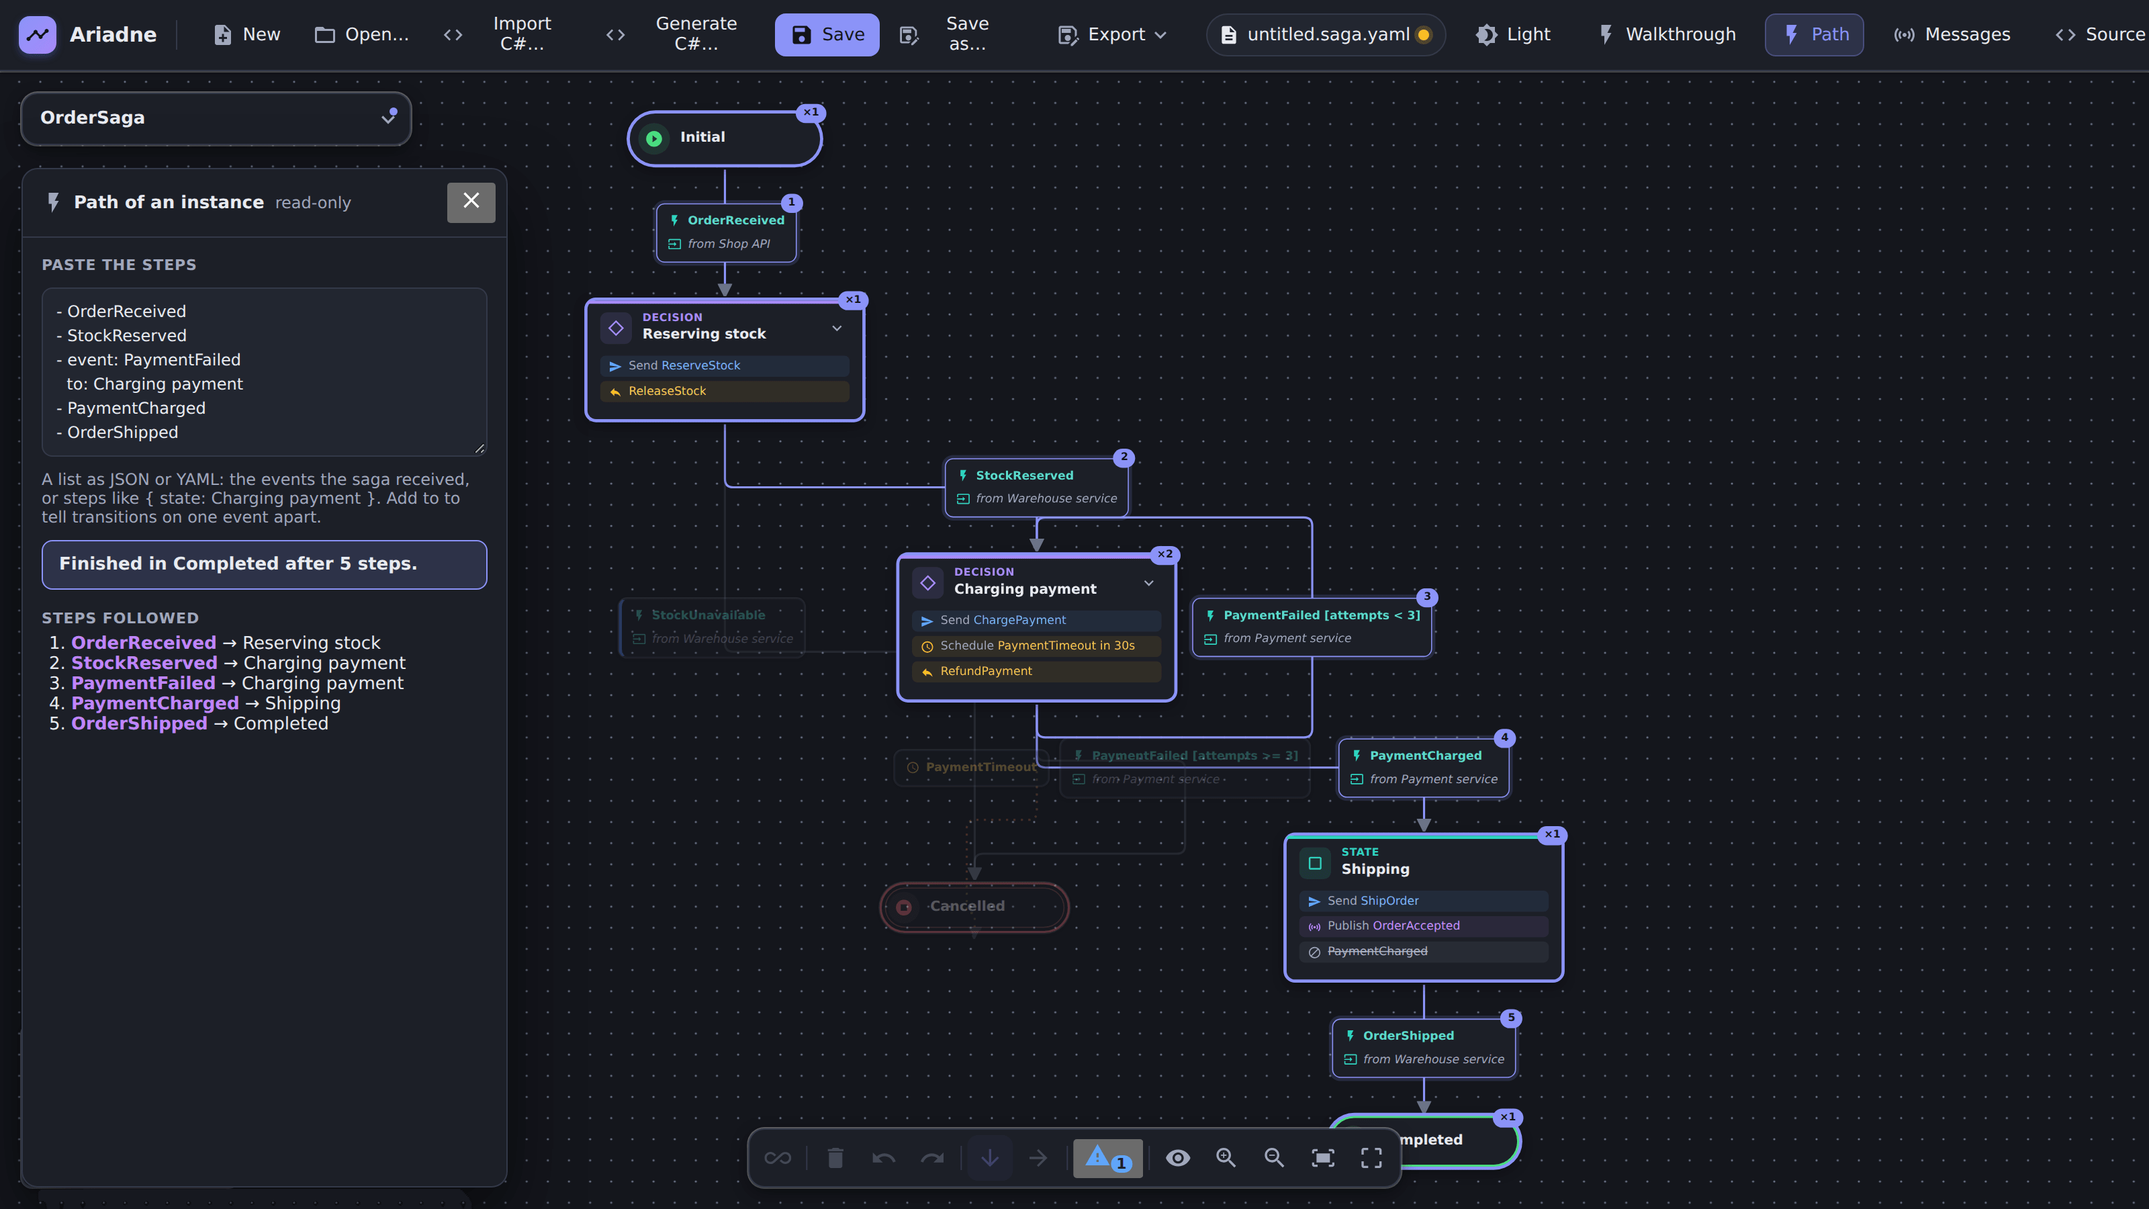
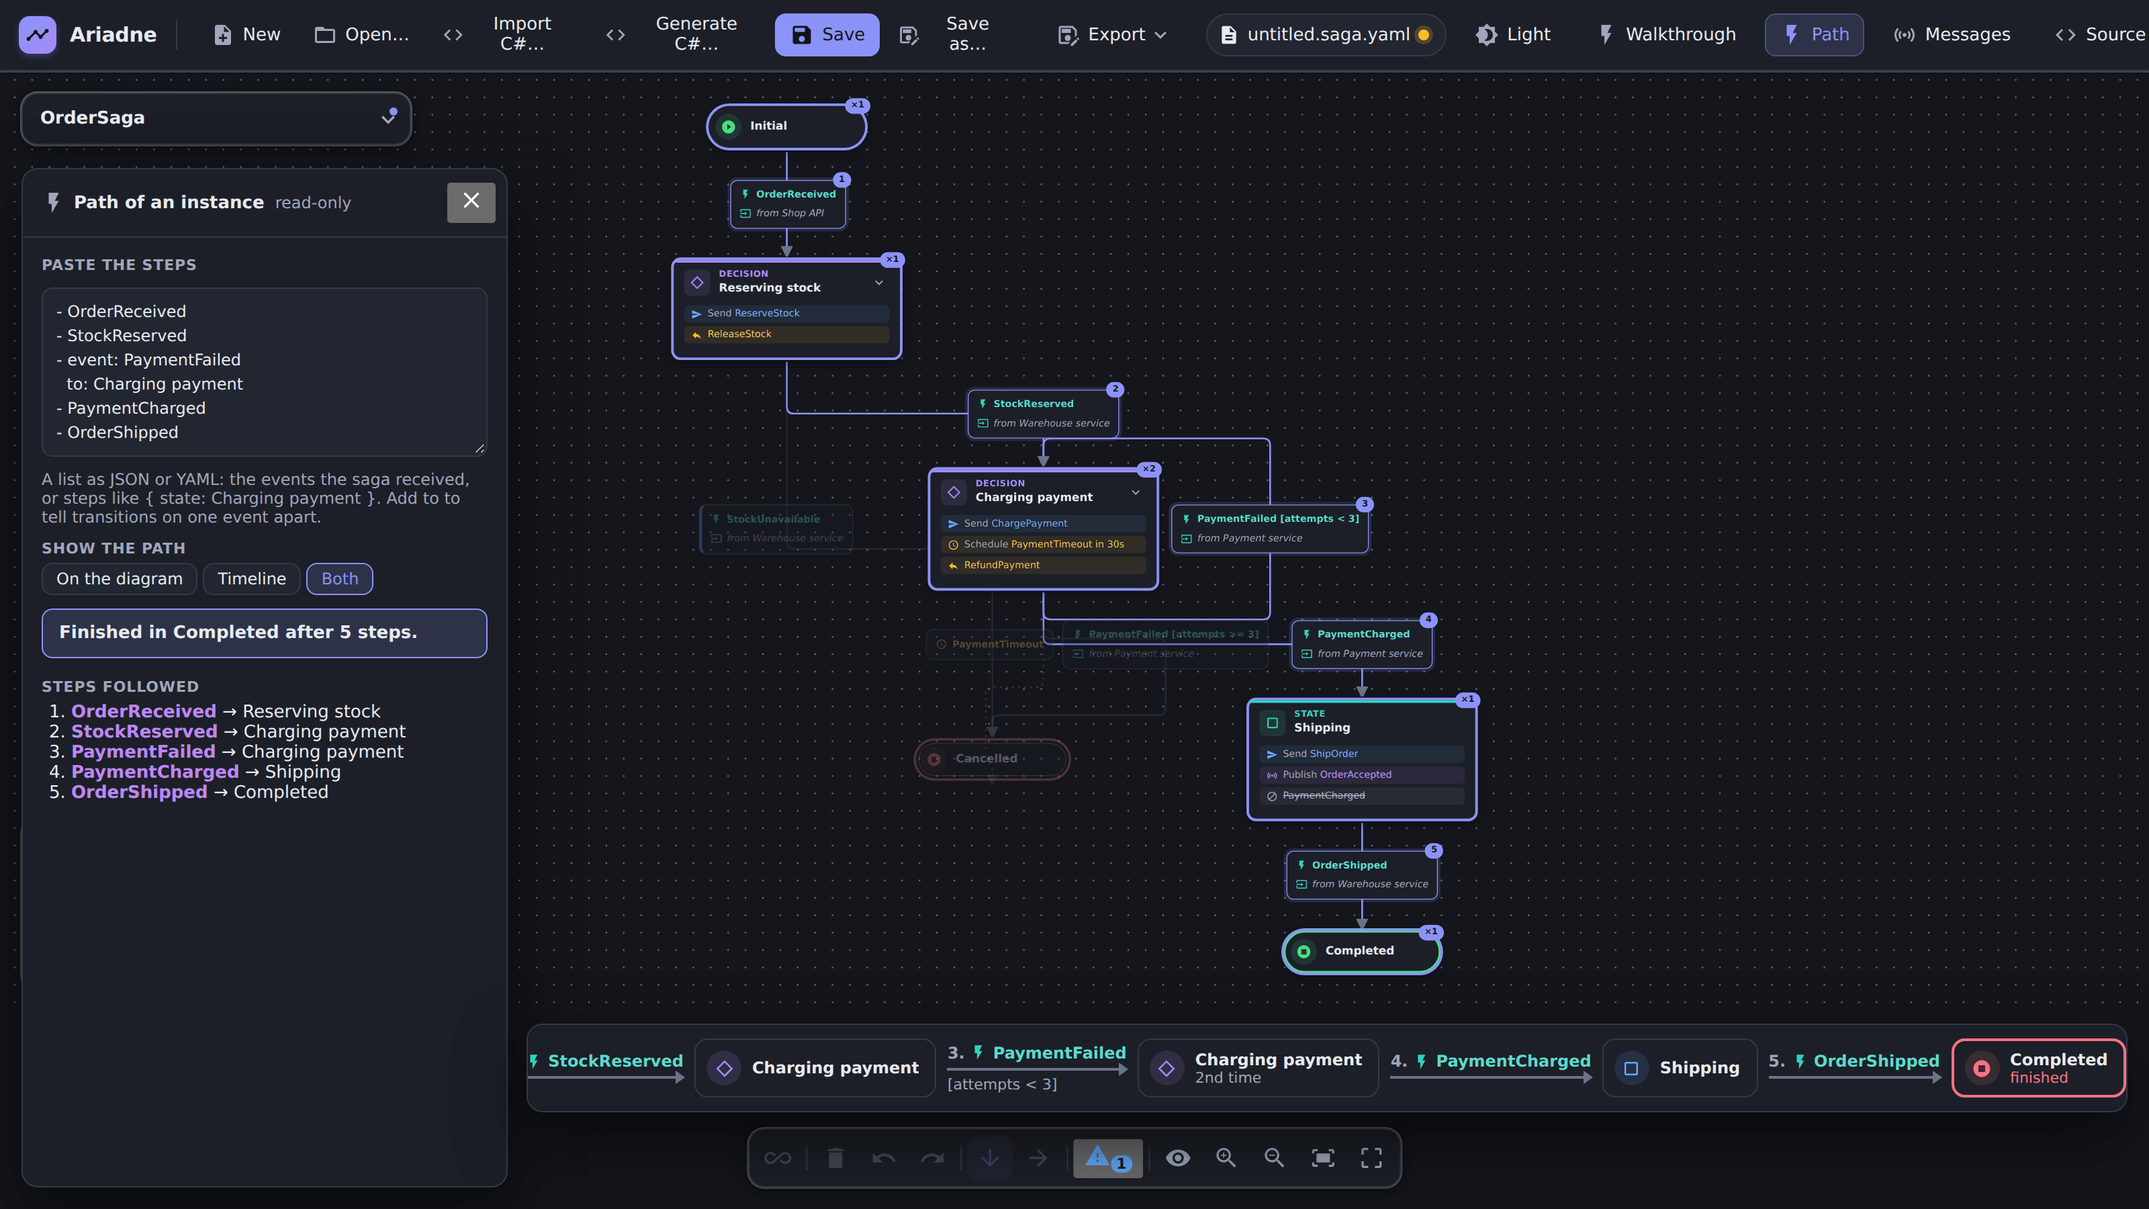
feat: the path timeline in the demo and the guide (#379)

diff --git a/apps/web/src/app/sample-link.ts b/apps/web/src/app/sample-link.ts
@@ -1,16 +1,35 @@
-/** The address parameter that opens a sample, as in `…/app/?sample=order`. */
+/** The address parameters that open a sample, and its example path: `…/app/?sample=order&path=example`. */
 export const SAMPLE_PARAM = 'sample';
+export const PATH_PARAM = 'path';
+
+/** What the address asks to open on start. */
+export interface StartParams {
+  /** The id of a sample, or null. */
+  sample: string | null;
+  /** `example` for the sample's example path; anything else is reported, null for none. */
+  path: string | null;
+}
 
 /**
- * The sample id in the address (`?sample=order`), or null. It is taken out of the address when it
- * is read (`history.replaceState`, no new entry in the history), so a reload or a copied address
- * does not open the sample again over what has been edited since. Other parameters and the hash stay.
+ * The sample (`?sample=order`) and path (`&path=example`) in the address. They are taken out of the
+ * address when read (`history.replaceState`, no new entry in the history), so a reload or a copied
+ * address does not open the sample again over what has been edited since. Other parameters and the
+ * hash stay.
  */
-export function takeSampleParam(win: Window = window): string | null {
+export function takeStartParams(win: Window = window): StartParams {
   const url = new URL(win.location.href);
-  const id = url.searchParams.get(SAMPLE_PARAM);
-  if (id === null) return null;
-  url.searchParams.delete(SAMPLE_PARAM);
-  win.history.replaceState(win.history.state, '', url);
-  return id.trim() || null;
+  const read = (name: string) => {
+    const value = url.searchParams.get(name);
+    url.searchParams.delete(name);
+    return value === null ? null : value.trim() || null;
+  };
+  const had = url.searchParams.has(SAMPLE_PARAM) || url.searchParams.has(PATH_PARAM);
+  const params = { sample: read(SAMPLE_PARAM), path: read(PATH_PARAM) };
+  if (had) win.history.replaceState(win.history.state, '', url);
+  return params;
+}
+
+/** The sample id in the address, or null; takes the sample and path parameters out of it. */
+export function takeSampleParam(win: Window = window): string | null {
+  return takeStartParams(win).sample;
 }

diff --git a/apps/site/.vitepress/demo-links.ts b/apps/site/.vitepress/demo-links.ts
@@ -17,6 +17,9 @@ export function sampleIdOf(repoPath: string): string | null {
   );
 }
 
+/** The samples that have an example path in the app (`path` in `samples.ts`): the tour. */
+export const SAMPLES_WITH_PATH: readonly string[] = Object.values(TOUR_SAMPLES);
+
 /** The page that lists the samples, and so gets the links to open them in the demo (also as rewritten). */
 const SAMPLE_PAGES = ['guide/README.md', 'guide/index.md'];
 
@@ -38,7 +41,8 @@ interface Markdown {
 
 /**
  * Site only: in the sample tables of the guide, a link to a sample is followed by "Open in the demo",
- * which opens it in the editor (`<base>app/?sample=<id>`). The Markdown stays plain for GitHub, which
+ * which opens it in the editor (`<base>app/?sample=<id>`), and for a sample with an example instance
+ * "with a path" (`&path=example`), which also shows that instance's path and timeline. The Markdown stays plain for GitHub, which
  * has no demo. Must be added before the repository-link plugin, which rewrites the addresses it reads.
  */
 export function demoLinksPlugin(md: Markdown, base: string): void {
@@ -72,6 +76,18 @@ export function demoLinksPlugin(md: Markdown, base: string): void {
           const label = new state.Token('text', '', 0);
           label.content = 'Open in the demo';
           children.push(separator, open, label, new state.Token('link_close', 'a', -1));
+          if (SAMPLES_WITH_PATH.includes(id)) {
+            const and = new state.Token('text', '', 0);
+            and.content = ' · ';
+            const withPath = new state.Token('link_open', 'a', 1);
+            withPath.attrs = [
+              ['href', `${base}app/?sample=${encodeURIComponent(id)}&path=example`],
+              ['target', '_self'],
+            ];
+            const text = new state.Token('text', '', 0);
+            text.content = 'with a path';
+            children.push(and, withPath, text, new state.Token('link_close', 'a', -1));
+          }
           id = null;
         }
       }

diff --git a/apps/site/tests/demo-links.spec.ts b/apps/site/tests/demo-links.spec.ts
@@ -2,7 +2,7 @@ import { readFileSync, readdirSync } from 'node:fs';
 import { resolve } from 'node:path';
 import { createMarkdownRenderer } from 'vitepress';
 import { describe, expect, it } from 'vitest';
-import { demoLinksPlugin, sampleIdOf } from '../.vitepress/demo-links';
+import { SAMPLES_WITH_PATH, demoLinksPlugin, sampleIdOf } from '../.vitepress/demo-links';
 import { repoLinksPlugin } from '../.vitepress/repo-links';
 
 const repoRoot = resolve(import.meta.dirname, '../../..');
@@ -28,6 +28,13 @@ describe('the ids the guide links to are samples of the app', () => {
   const library = readdirSync(resolve(repoRoot, 'samples/library'), { withFileTypes: true })
     .filter((d) => d.isDirectory())
     .map((d) => d.name);
+
+  it('offers "with a path" exactly for the samples that have an example path in the app', () => {
+    const withPath = [...samplesSource.matchAll(/\bid: '([^']+)'[\s\S]*?(?=\bid: '|$)/g)]
+      .filter((m) => /\bpath: \[/.test(m[0]))
+      .map((m) => m[1]);
+    expect([...SAMPLES_WITH_PATH].sort()).toEqual(withPath.sort());
+  });
 
   it('finds the samples of the app', () => {
     expect(tour).toEqual(expect.arrayContaining(['order', 'booking', 'travel-booking']));
@@ -79,6 +86,11 @@ describe('the markdown-it plugin', () => {
     );
     expect(html).toContain('href="/ariadne/app/?sample=order-fulfilment"');
     expect(html.match(/Open in the demo/g)).toHaveLength(2);
+    // A tour sample has an example instance, a library sample not.
+    expect(html).toContain(
+      '<a href="/ariadne/app/?sample=order&amp;path=example" target="_self">with a path</a>',
+    );
+    expect(html.match(/with a path/g)).toHaveLength(1);
     // The sample link itself still goes to the repository.
     expect(html).toContain(
       'href="https://github.com/GravionLabs/ariadne/blob/main/docs/examples/order.saga.yaml"',

diff --git a/apps/web/src/app/samples.ts b/apps/web/src/app/samples.ts
@@ -15,6 +15,11 @@ export interface Sample {
   description: string;
   /** The diagram as a `*.saga.yaml` file. */
   yaml: string;
+  /**
+   * The history of an example instance (a YAML list of steps, as the Path panel takes them): opened
+   * with the sample by `?sample=<id>&path=example`, to show its path and timeline.
+   */
+  path?: string;
 }
 
 /** The tour: three small sagas, one for each thing the app draws, first in the list. */
@@ -25,6 +30,12 @@ export const TOUR_SAMPLES: readonly Sample[] = [
     title: 'Order saga',
     description: 'Stock and payment, a payment retried and timed out. The simplest tour.',
     yaml: order,
+    path: [
+      '- { event: OrderReceived, at: "09:58", note: from the shop }',
+      '- StockReserved',
+      '- { event: PaymentFailed, to: Charging payment, at: "10:01", note: card declined }',
+      '- PaymentCharged',
+    ].join('\n'),
   },
   {
     id: 'booking',
@@ -32,6 +43,7 @@ export const TOUR_SAMPLES: readonly Sample[] = [
     title: 'Booking saga',
     description: 'Branches on events from outside, read from C#.',
     yaml: booking,
+    path: ['- BookingRequested', '- { event: PaymentReceived, note: paid by card }'].join('\n'),
   },
   {
     id: 'travel-booking',
@@ -39,6 +51,14 @@ export const TOUR_SAMPLES: readonly Sample[] = [
     title: 'Travel booking',
     description: 'Requests, a join, timeouts and compensation: flight, hotel and payment.',
     yaml: travel,
+    path: [
+      '- TravellerSubmitted',
+      '- { event: ValidateTraveller.TimeoutExpired, to: Validating traveller, note: validation service slow }',
+      '- ValidateTraveller.Completed',
+      '- PaymentMethodConfirmed',
+      '- PaymentAuthorized',
+      '- BookingReady',
+    ].join('\n'),
   },
 ];
 

diff --git a/apps/web/src/app/editor/editor.ts b/apps/web/src/app/editor/editor.ts
@@ -42,7 +42,7 @@ import { Inspector } from './inspector';
 import { SagaImport } from '../import/saga-import';
 import { CatalogPanel } from './catalog-panel';
 import { AppErrors } from '../error-handler';
-import { takeSampleParam } from '../sample-link';
+import { takeStartParams } from '../sample-link';
 import { findSample, sampleDiagram } from '../samples';
 import { GenerateDialog } from './generate-dialog';
 import { ImportDialog } from './import-dialog';
@@ -328,9 +328,12 @@ export class Editor {
     this.afterReplace();
   }
 
-  /** `?sample=<id>` in the address: opens that sample like New → sample; an unknown id is said so. */
+  /**
+   * `?sample=<id>` in the address: opens that sample like New → sample; `&path=example` also shows the
+   * path of its example instance, on the diagram and as a timeline. What cannot be opened is said so.
+   */
   private async openSampleFromUrl(): Promise<void> {
-    const id = takeSampleParam();
+    const { sample: id, path } = takeStartParams();
     if (!id) return;
     const sample = await findSample(id);
     if (!sample) {
@@ -339,6 +342,18 @@ export class Editor {
     }
     this.file.openImported(sampleDiagram(sample));
     this.afterReplace();
+    if (!path) return;
+    if (path !== 'example' || !sample.path) {
+      this.errors.report(
+        path === 'example'
+          ? `The sample ${id} has no example path.`
+          : `There is no path “${path}”: use path=example.`,
+      );
+      return;
+    }
+    if (this.leftPanel() !== 'path') this.togglePath();
+    this.path.setView('both');
+    this.path.setText(sample.path);
   }
 
   protected async open(): Promise<void> {

diff --git a/apps/web/src/app/editor/editor.spec.ts b/apps/web/src/app/editor/editor.spec.ts
@@ -1531,6 +1531,33 @@ describe('Editor', () => {
         expect(location.search).toBe('');
       });
 
+      it('opens the example path of a sample with path=example: the panel, the timeline and both views', async () => {
+        visit('?sample=order&path=example');
+        const { el, store, settle } = await setup();
+        await vi.waitFor(() => expect(store.diagram().name).toBe('OrderSaga'));
+        await vi.waitFor(() => expect(el.querySelector('app-path-timeline')).toBeTruthy());
+        await settle();
+        expect(el.querySelector<HTMLTextAreaElement>('app-path-panel textarea')!.value).toContain(
+          'OrderReceived',
+        );
+        expect(el.querySelector('app-path-panel .result')?.textContent).toContain(
+          'Now in Shipping',
+        );
+        expect(el.querySelector('app-node-card[data-highlight="on"]')).toBeTruthy();
+        expect(location.search).toBe('');
+      });
+
+      it('says so for a path it cannot show, and still opens the sample', async () => {
+        visit('?sample=order&path=yesterday');
+        const { store } = await setup();
+        await vi.waitFor(() => expect(store.diagram().name).toBe('OrderSaga'));
+        await vi.waitFor(() =>
+          expect(TestBed.inject(AppErrors).current()?.message).toBe(
+            'There is no path “yesterday”: use path=example.',
+          ),
+        );
+      });
+
       it('does nothing in VS Code, which owns the document, and leaves the address as it is', async () => {
         visit('?sample=order');
         const { store, settle } = await setup({ embedded: true });

diff --git a/apps/web/src/app/samples.spec.ts b/apps/web/src/app/samples.spec.ts
@@ -1,4 +1,4 @@
-import { parseDiagram } from '@ariadne/core';
+import { parseDiagram, parsePathSteps, resolvePath } from '@ariadne/core';
 import {
   SAMPLE_GROUPS,
   Sample,
@@ -14,6 +14,18 @@ import { listFolders, readSource } from './testing/read-source';
 const SAMPLES: readonly Sample[] = await loadSamples();
 
 describe('the samples', () => {
+  it('has an example path for every tour sample, which resolves without a problem', () => {
+    for (const sample of TOUR_SAMPLES) {
+      expect(sample.path, sample.id).toBeTruthy();
+      const parsed = parsePathSteps(sample.path!);
+      if (!('steps' in parsed)) throw new Error(`${sample.id}: ${parsed.error}`);
+      expect(parsed.steps.length, sample.id).toBeGreaterThanOrEqual(2);
+      const resolved = resolvePath(parseDiagram(sample.yaml), parsed.steps);
+      expect(resolved.problems, sample.id).toEqual([]);
+      expect(resolved.transitions).toHaveLength(parsed.steps.length);
+    }
+  });
+
   it('has the tour at once, and loads the library as a chunk of its own', async () => {
     expect(TOUR_SAMPLES.map((s) => s.id)).toEqual(['order', 'booking', 'travel-booking']);
     const library = await loadLibrarySamples();

diff --git a/apps/web/capture/guide.capture.ts b/apps/web/capture/guide.capture.ts
@@ -203,11 +203,25 @@ test('path-panel', async ({ page }) => {
   await box.fill(
     '- OrderReceived\n- StockReserved\n- event: PaymentFailed\n  to: Charging payment\n- PaymentCharged\n- OrderShipped',
   );
-  // The path moves the view to where it ends: show the whole saga.
+  // The path moves the view to where it ends: show the whole saga (fitting leaves room for the timeline).
   await page.locator('[aria-label="Fit to screen"]').click();
   await unhover(page);
   await settle(page);
   await shots(page, 'path-panel');
+});
+
+test('path-timeline', async ({ page }) => {
+  await openApp(page);
+  await openSample(page, 'order');
+  await page.getByRole('button', { name: 'Path', exact: true }).click();
+  await page
+    .locator('app-path-panel textarea')
+    .fill(
+      '- OrderReceived\n- StockReserved\n- event: PaymentFailed\n  to: Charging payment\n  note: card declined\n- event: PaymentFailed\n  to: Charging payment\n- PaymentCharged',
+    );
+  await unhover(page);
+  await settle(page);
+  await shots(page, 'path-timeline', { of: page.locator('app-path-timeline') });
 });
 
 // ---- import-and-generate.md

diff --git a/apps/web/src/app/sample-link.spec.ts b/apps/web/src/app/sample-link.spec.ts
@@ -1,5 +1,5 @@
 import { afterEach, describe, expect, it } from 'vitest';
-import { takeSampleParam } from './sample-link';
+import { takeSampleParam, takeStartParams } from './sample-link';
 
 describe('takeSampleParam', () => {
   const original = location.href;
@@ -36,5 +36,16 @@ describe('takeSampleParam', () => {
   it('decodes the id', () => {
     at('?sample=travel%2Dbooking');
     expect(takeSampleParam()).toBe('travel-booking');
+  });
+
+  it('reads the example path with the sample, and takes both out of the address', () => {
+    at('?sample=order&path=example&x=1');
+    expect(takeStartParams()).toEqual({ sample: 'order', path: 'example' });
+    expect(location.search).toBe('?x=1');
+    at('?path=example');
+    expect(takeStartParams()).toEqual({ sample: null, path: 'example' });
+    expect(location.search).toBe('');
+    at('?x=1');
+    expect(takeStartParams()).toEqual({ sample: null, path: null });
   });
 });

diff --git a/apps/web/src/app/editor/editor.scss b/apps/web/src/app/editor/editor.scss
@@ -331,6 +331,11 @@ app-export-menu ::ng-deep .menu-button {
   width: min(360px, calc(100% - 32px));
 }
 
+// With the timeline of a path, the canvas ends above it: fitting and centring use the part that shows.
+.with-timeline .editor-flow {
+  height: calc(100% - 150px);
+}
+
 // The timeline of a path: along the bottom, right of the Path panel, above the toolbox.
 .path-timeline {
   position: absolute;

diff --git a/apps/web/src/app/editor/editor.html b/apps/web/src/app/editor/editor.html
@@ -160,7 +160,12 @@
       </button>
     </div>
   }
-  <div class="workspace" [attr.data-direction]="store.direction()" [class.walking]="walking()">
+  <div
+    class="workspace"
+    [attr.data-direction]="store.direction()"
+    [class.walking]="walking()"
+    [class.with-timeline]="!!path.timeline()"
+  >
     <f-flow
       fDraggable
       class="editor-flow"

diff --git a/docs/guide/getting-started.md b/docs/guide/getting-started.md
@@ -14,7 +14,11 @@ Choose **New** and, under "Start with a tour", the _Order saga_ (under "Real-wor
 anywhere yet. Click a state or a transition: the inspector on the right shows what it is. **Walkthrough** steps
 through the saga event by event, **Messages** lists its commands and events and where they are used, and **Path**
 draws the path a saga instance took: paste the events it received (a JSON or YAML list, e.g. `- OrderReceived`) and the
-diagram shows the states visited, the transitions taken with their step numbers, and where the instance stands.
+diagram shows the states visited, the transitions taken with their step numbers, and where the instance stands. A
+**timeline** under the canvas lists the same path left to right: only the states it went through and the event of each
+step, a loop as often as it was taken, the state it is in now emphasised. Click a state or a step to find it on the
+diagram. The panel chooses between **On the diagram**, **Timeline** and **Both**. To see it at once, open the
+[order sample with an example path](https://gravionlabs.github.io/ariadne/app/?sample=order&path=example) in the demo.
 
 <picture>
   <source media="(prefers-color-scheme: dark)" srcset="../images/guide/new-dialog-dark.png">
@@ -30,7 +34,12 @@ diagram shows the states visited, the transitions taken with their step numbers,
 
 <picture>
   <source media="(prefers-color-scheme: dark)" srcset="../images/guide/path-panel-dark.png">
-  <img alt="The Path panel with the events a saga instance received pasted in. The diagram shows the states it visited, the transitions it took with their step numbers, and the panel says it finished in Completed after 5 steps" src="../images/guide/path-panel-light.png">
+  <img alt="The Path panel with the events a saga instance received pasted in. The diagram shows the states it visited, the transitions it took with their step numbers, the panel says it finished in Completed after 5 steps, and the timeline under the canvas lists the same states and events left to right" src="../images/guide/path-panel-light.png">
+</picture>
+
+<picture>
+  <source media="(prefers-color-scheme: dark)" srcset="../images/guide/path-timeline-dark.png">
+  <img alt="The timeline of a path: Initial, then OrderReceived to Reserving stock, StockReserved to Charging payment, PaymentFailed with the note “card declined” back to Charging payment for the 2nd and 3rd time, and PaymentCharged to Shipping, where the instance is now" src="../images/guide/path-timeline-light.png">
 </picture>
 
 ## Draw your own
